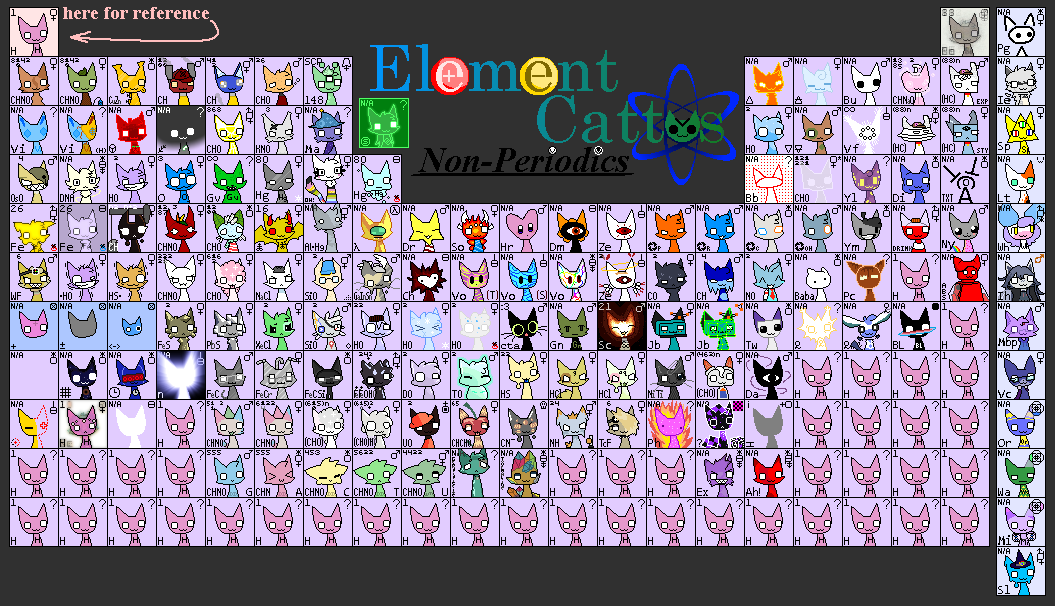
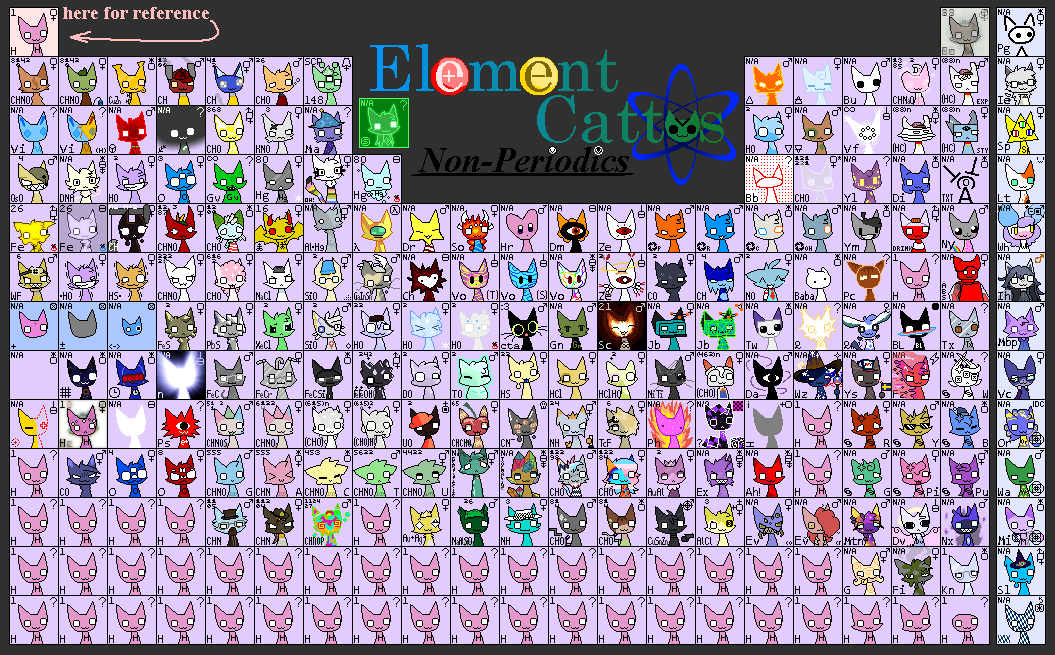
long-awaited update

diff --git a/editor/editor.py b/editor/editor.py
@@ -202,6 +202,19 @@ class Editor:
                     self.camera.pos,
                     False
                 ))
+            if self.active_element is not None and \
+                key == glfw.KEY_TAB and action == glfw.PRESS:
+
+                self.table.elements.append(Element(
+                    self.active_element.name,
+                    self.active_element.symbol,
+                    self.active_element.pronouns,
+                    [author for author in self.active_element.authors],
+                    self.active_element.embed_color,
+                    self.active_element.atomic_number,
+                    self.camera.pos,
+                    self.active_element.oc
+                ))
         return cb
 
     def move_to_el(self, offset: int):

diff --git a/editor/main.py b/editor/main.py
@@ -12,11 +12,13 @@ from editor import Editor
 import time
 
 def main():
+    print("Hello!")
     window = init()
     imgui.create_context()
     impl = GlfwRenderer(window)
     impl.refresh_font_texture()
     editor = Editor(window, impl)
+    print("Launching editor...")
     try:
         last_update = time.perf_counter()
         dt = 1 / 60
@@ -67,3 +69,5 @@ def init():
 
 if __name__ == '__main__':
     main()
+else:
+    print(__name__)
